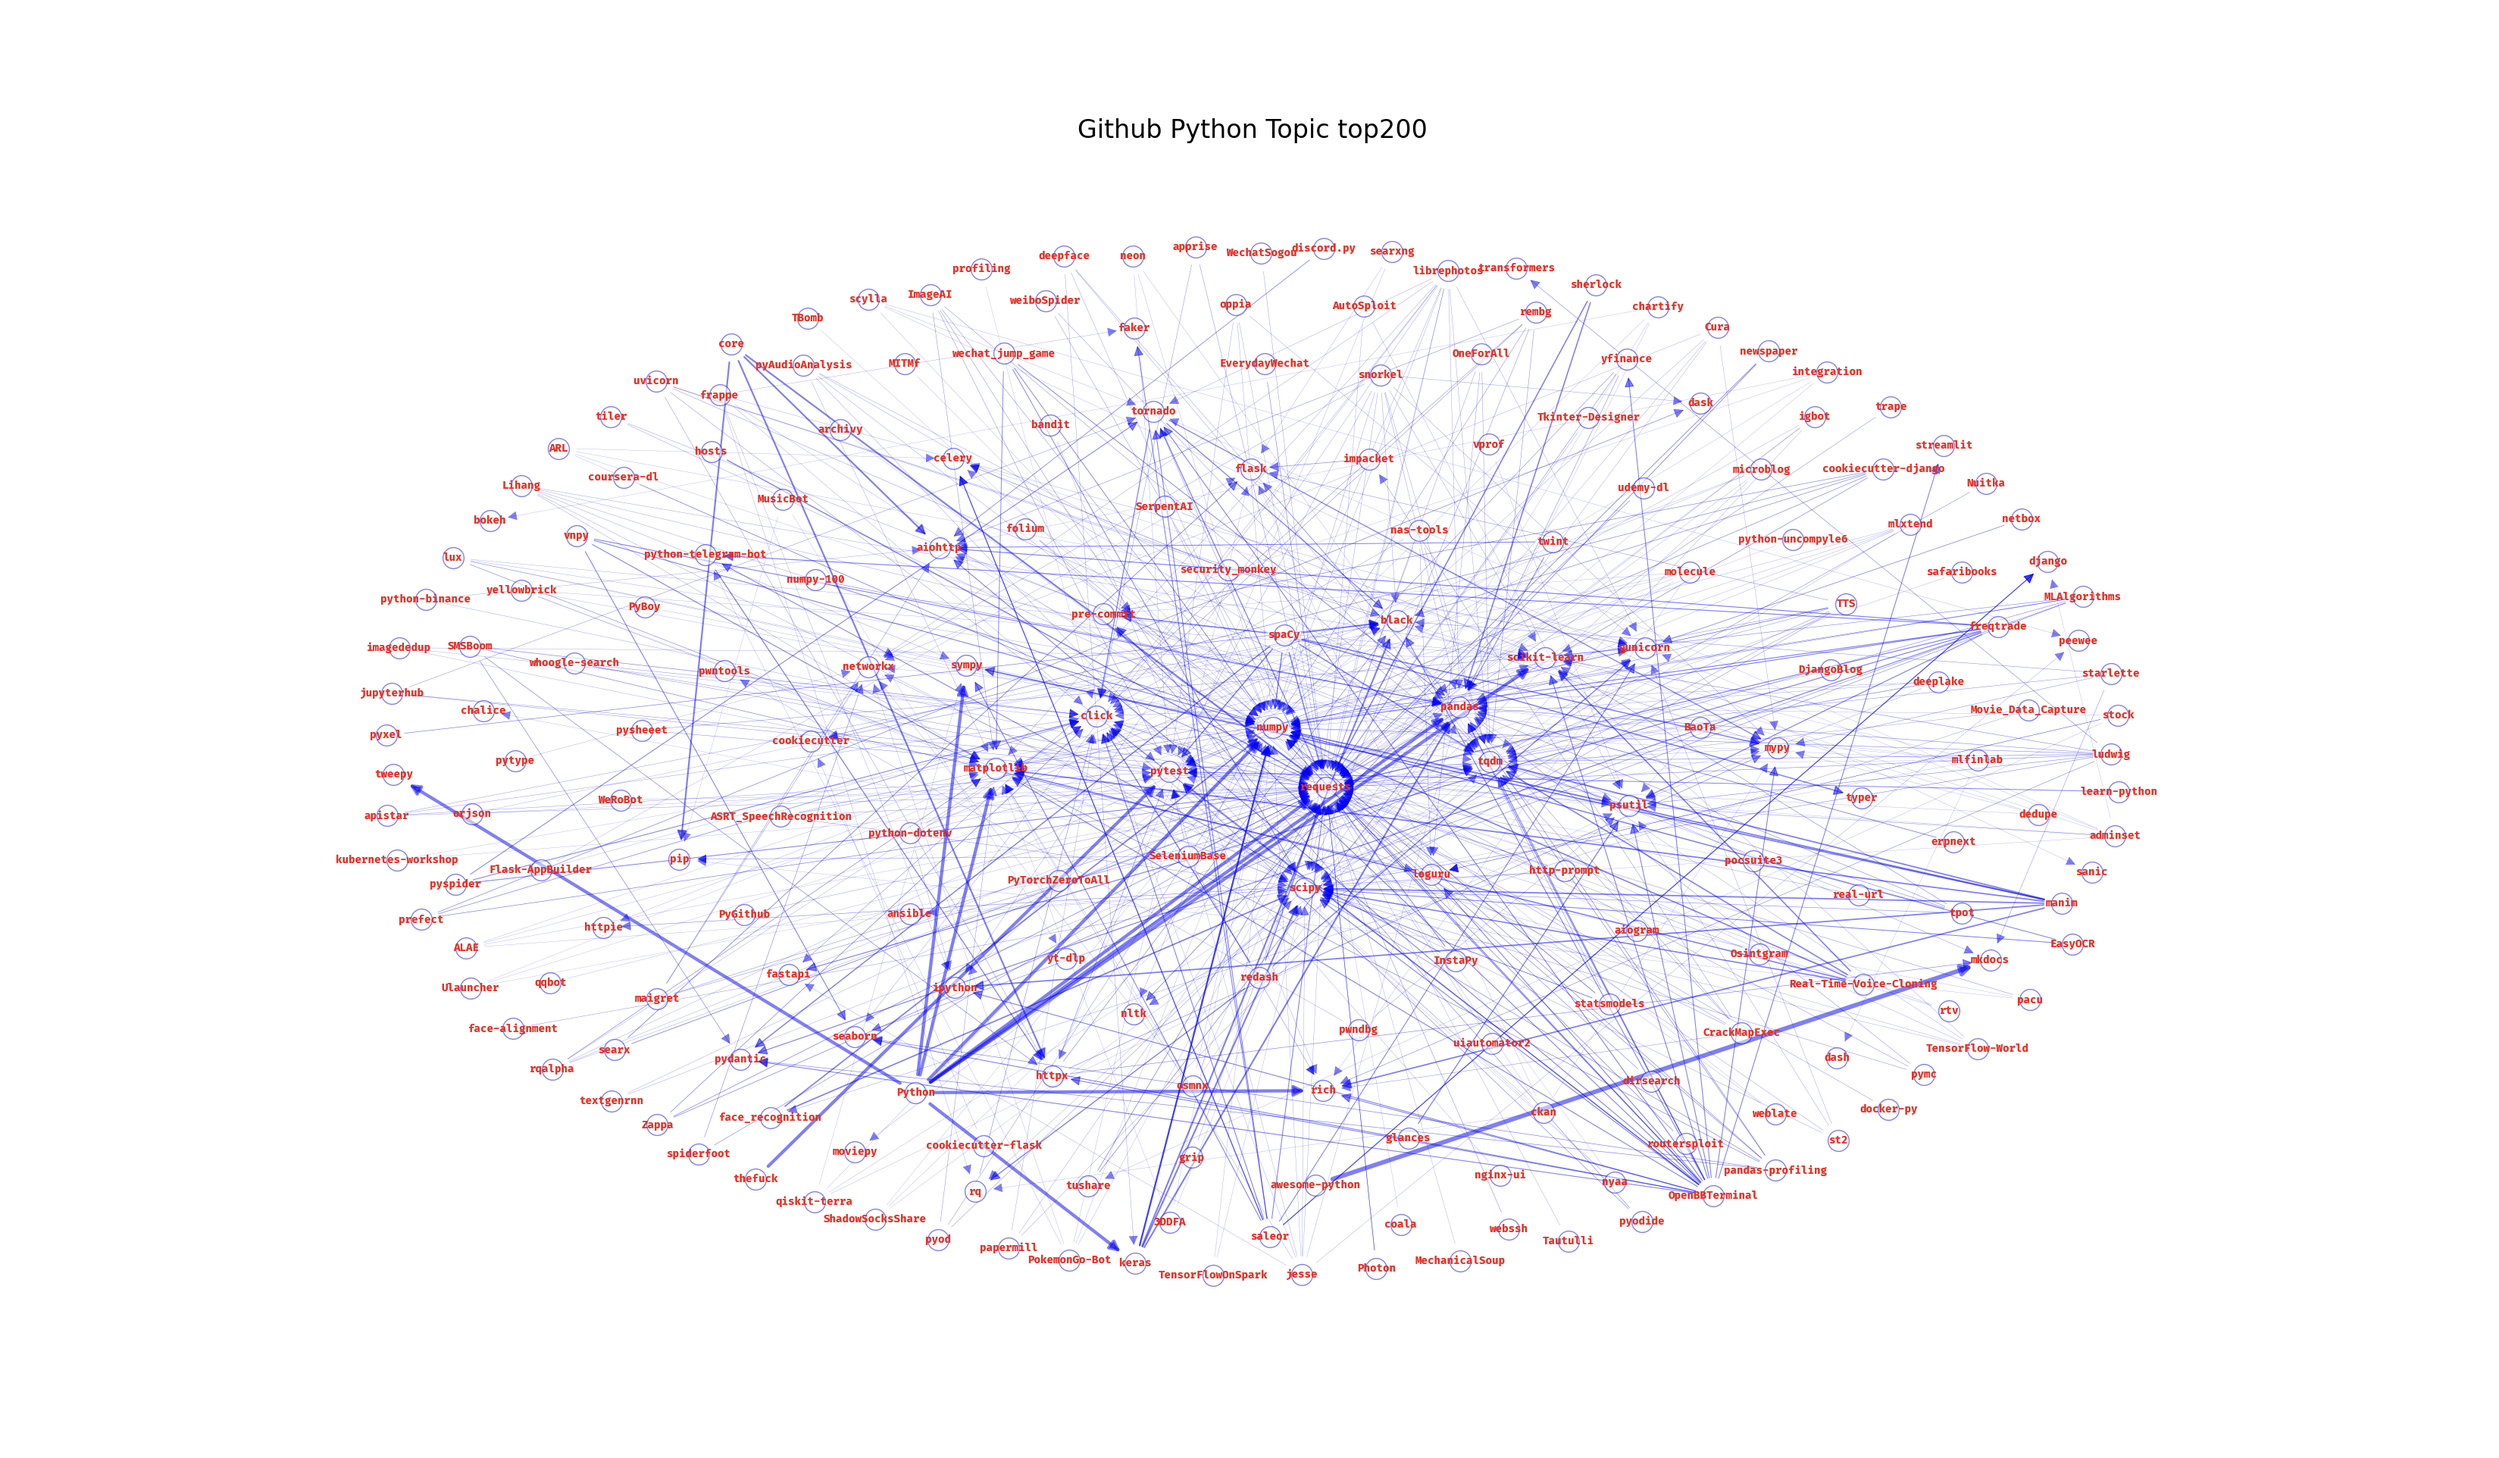
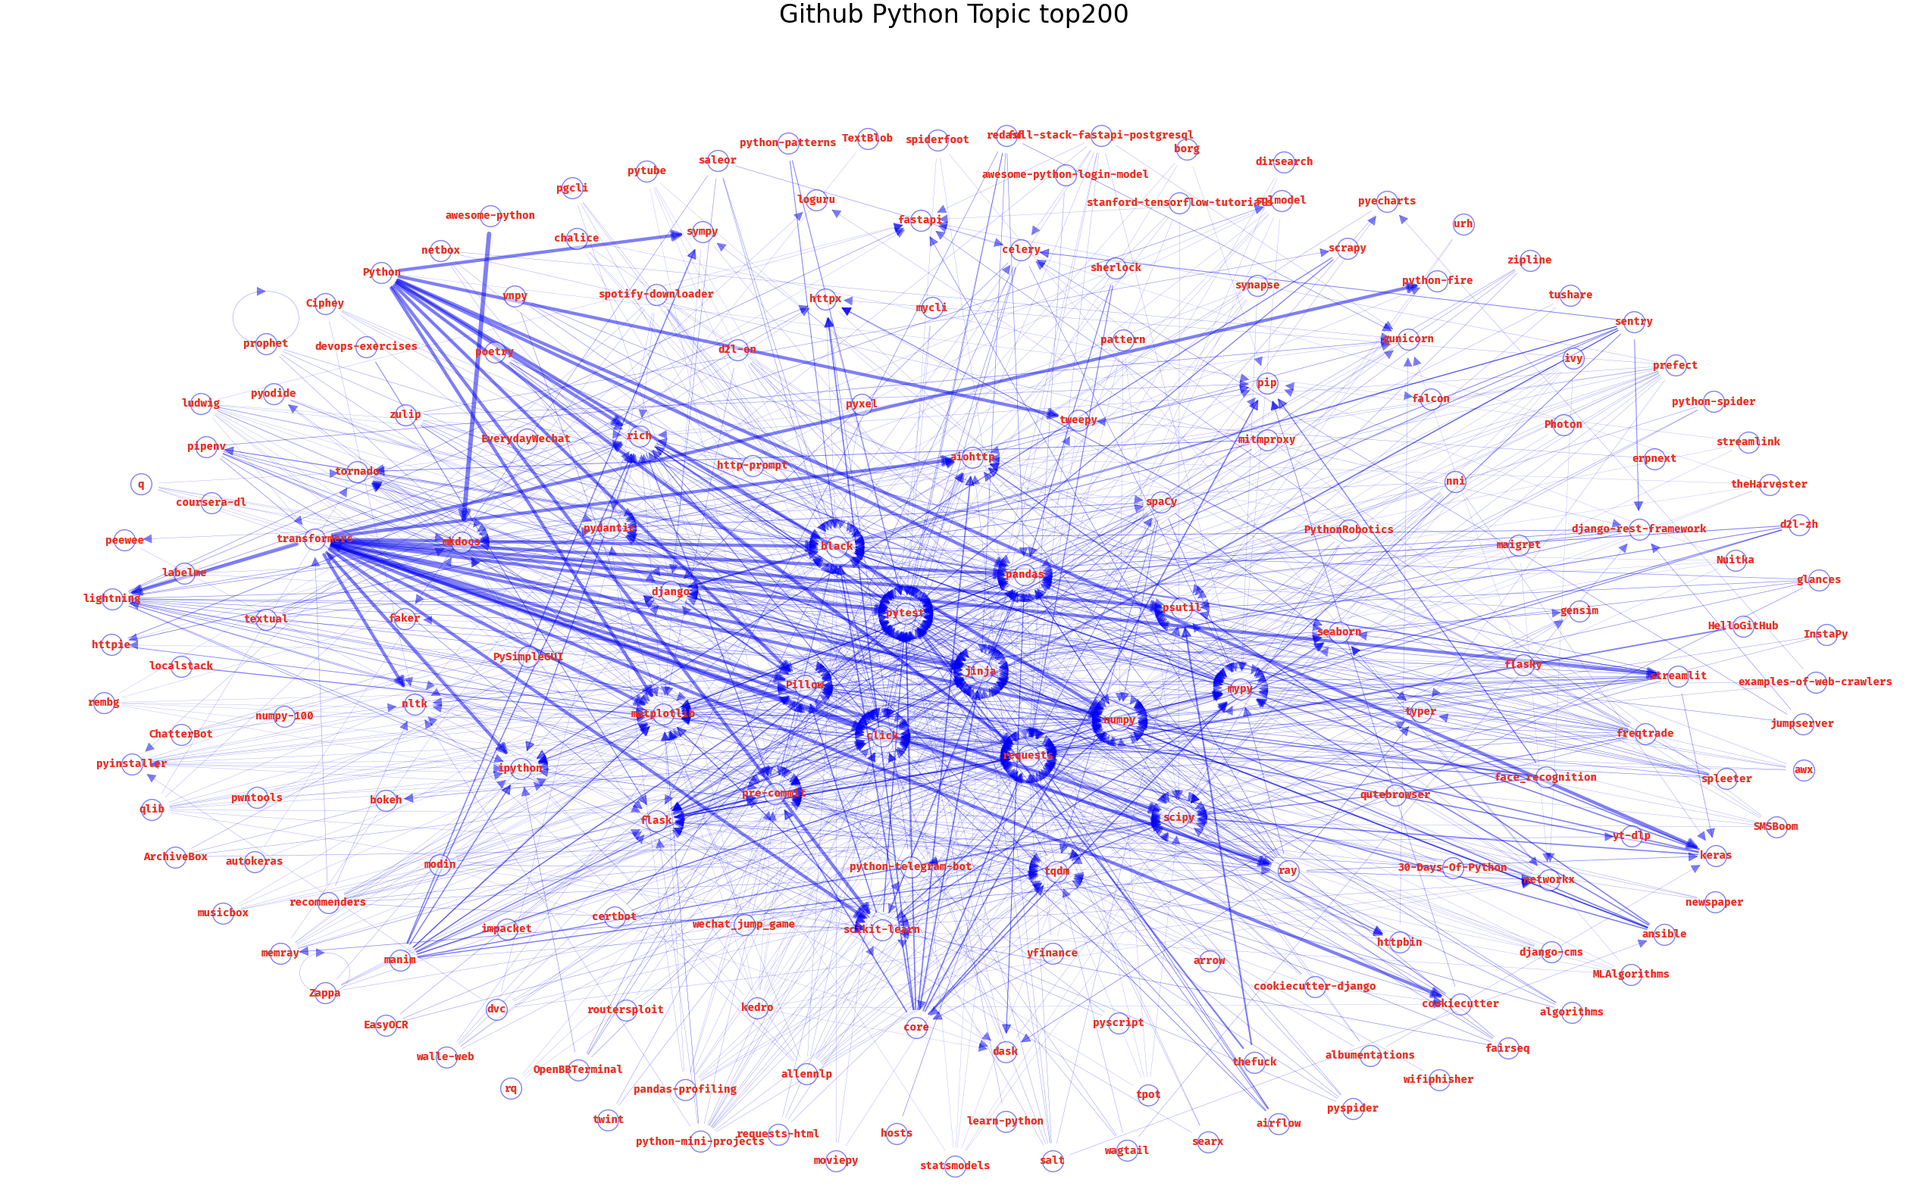
visualize dependency with networkx

diff --git a/project3Advanced/visualize_dependency.py b/project3Advanced/visualize_dependency.py
@@ -47,7 +47,7 @@ def get_dependency_data() -> int:
                 if pos != -1:
                     line = line[:pos].strip()
             dependency[repo].append(line)
-    # print(dependency)
+
     with open(f'{fileDir}/data/dependency_data.json', 'w', encoding='utf-8') as f:
         json.dump(dependency, f, ensure_ascii=True, indent=4)
     return 0
@@ -90,7 +90,7 @@ def get_complete_data() -> int:
             if item == repo:
                 save = True
         dependency[repo] = list(item_set)
-    # print(dependency[repo])
+
     with open(f'{fileDir}/data/complete_dependency_data.json', 'w', encoding='utf-8') as f:
         json.dump(dependency, f, ensure_ascii=True, indent=4)
     return 0
@@ -104,7 +104,7 @@ def draw_dependency_map(rank=100) -> None:
     G = nx.MultiDiGraph()  # 有多重边有向图
     edge_list = []
 
-    with open(f"{fileDir}/data/dependency_data.json") as f:
+    with open(f"{fileDir}/data/complete_dependency_data.json") as f:
         dependency = json.load(f)
     for key, value in dependency.items():
         if value == []:
@@ -138,4 +138,4 @@ def draw_dependency_map(rank=100) -> None:
 if __name__ == '__main__':
     # get_dependency_data()
     # get_complete_data()
-    draw_dependency_map(rank=200)
+    draw_dependency_map(rank=300)

diff --git a/project3Advanced/Project3AdvancedDoc.md b/project3Advanced/Project3AdvancedDoc.md
@@ -99,20 +99,29 @@ nx.draw_networkx_labels(G, pos, font_size=5, font_color="r", font_family=["Fira 
 
 （线条越粗说明star越多）
 
-[Figure3](https://github.com/dongguaguaguagua/FlyClubTest/blob/main/project3Advanced/images/Figure3.png)
+![Figure3](https://github.com/dongguaguaguagua/FlyClubTest/blob/main/project3Advanced/images/Figure3.png)
 
 2. 用完整版的数据：
 
 - Fira Code常规体 Top100
 
-[Figure4](https://github.com/dongguaguaguagua/FlyClubTest/blob/main/project3Advanced/images/Figure4.png)
+![Figure4](https://github.com/dongguaguaguagua/FlyClubTest/blob/main/project3Advanced/images/Figure4.png)
 
 - Fira Code粗体 Top100
 
-[Figure5](https://github.com/dongguaguaguagua/FlyClubTest/blob/main/project3Advanced/images/Figure5.png)
+![Figure5](https://github.com/dongguaguaguagua/FlyClubTest/blob/main/project3Advanced/images/Figure5.png)
 
 - Top200开开眼
 
-[Figure6](https://github.com/dongguaguaguagua/FlyClubTest/blob/main/project3Advanced/images/Figure5.png)
+![Figure6](https://github.com/dongguaguaguagua/FlyClubTest/blob/main/project3Advanced/images/Figure6.png)
 
-但是好像两者的数据差异并非肉眼可见，那是因为我在代码里滤去了没有进入top100的项目，因此绝大部分依赖都没用上。
+- Top300 太炫酷了：
+
+![Figure7](https://github.com/dongguaguaguagua/FlyClubTest/blob/main/project3Advanced/images/Figure7.png)
+
+- Top300 将中心放大：
+
+![Figure8](https://github.com/dongguaguaguagua/FlyClubTest/blob/main/project3Advanced/images/Figure8.png)
+
+但是好像两者的数据差异并非肉眼可见，那是因为我在代码里**滤去了没有进入Top100的项目**，因此绝大部分依赖都没用上。
+
